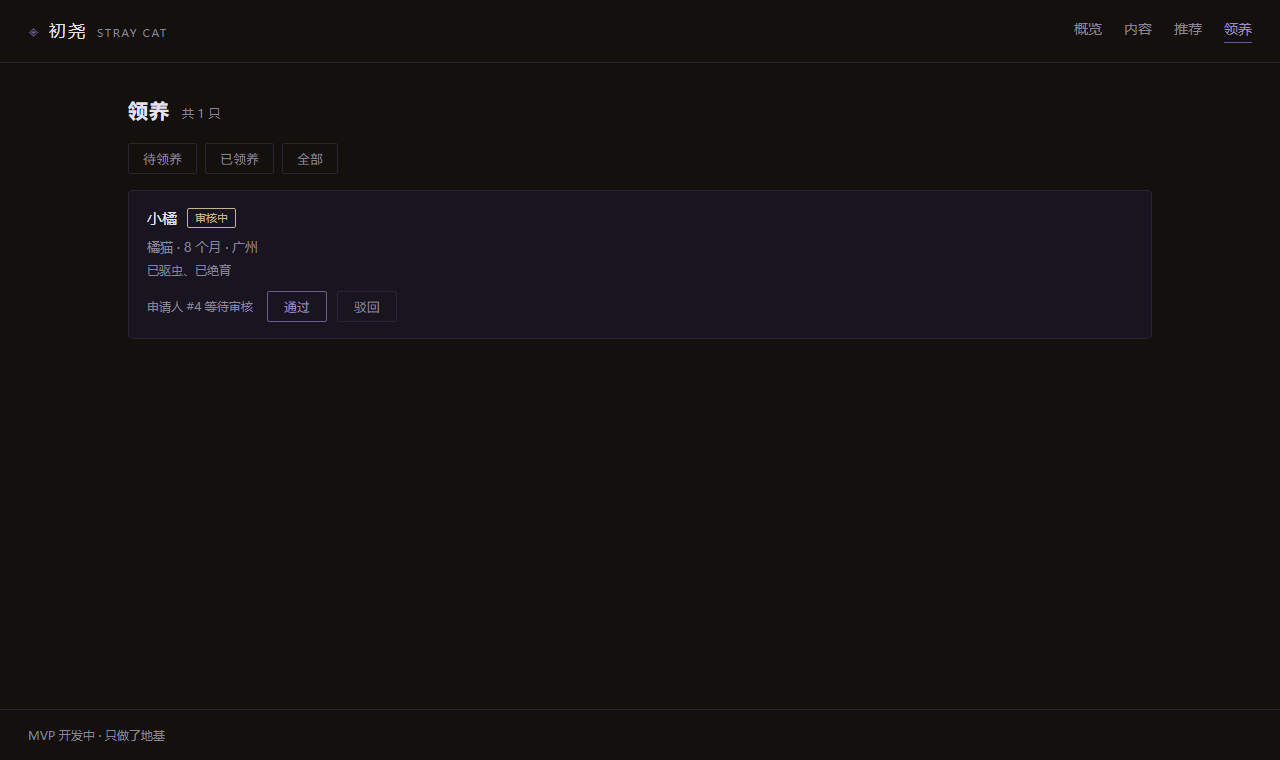
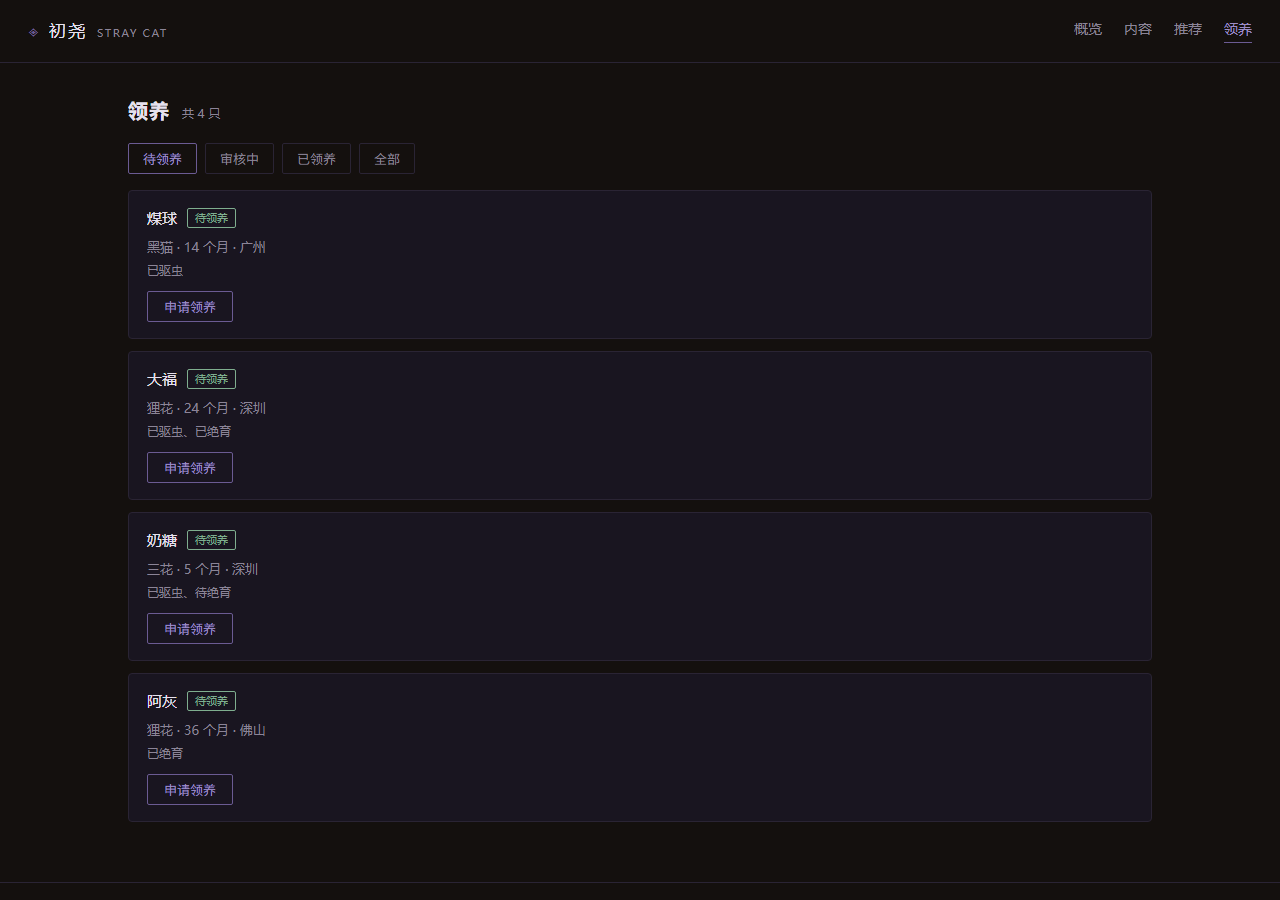
fix(web): 筛选栏补「审核中」，已领养显示领养人
- 之前审核中的猫只能在「全部」里看到，导致找不到「通过/驳回」按钮
- 种子数据给已领养的猫补 applicant_id
- 已领养卡片显示「已有家啦（领养人 #4）」

diff --git a/web/src/views/CatList.vue b/web/src/views/CatList.vue
@@ -24,6 +24,7 @@ const notice = ref('')           // 顶部提示条（成功 / 失败文案）
 
 const FILTERS = [
   { value: '待领养', label: '待领养' },
+  { value: '审核中', label: '审核中' },
   { value: '已领养', label: '已领养' },
   { value: '', label: '全部' },
 ]
@@ -145,7 +146,9 @@ onMounted(load)
           </button>
         </div>
 
-        <span v-else class="state-text">已有家啦</span>
+        <span v-else class="state-text">
+          已有家啦<template v-if="cat.applicant_id">（领养人 #{{ cat.applicant_id }}）</template>
+        </span>
       </li>
     </ul>
   </section>

diff --git a/scripts/seed_cats.py b/scripts/seed_cats.py
@@ -48,6 +48,8 @@ async def seed() -> None:
                 health=health,
                 city=city,
                 status=status,
+                # 已领养的猫要有个领养人，否则"已领养"这条记录是不完整的
+                applicant_id=4 if status == "已领养" else None,
                 cover_url=f"/covers/cat{pic:02d}.jpg",
             )
             for name, breed, age, health, city, status, pic in SEED
